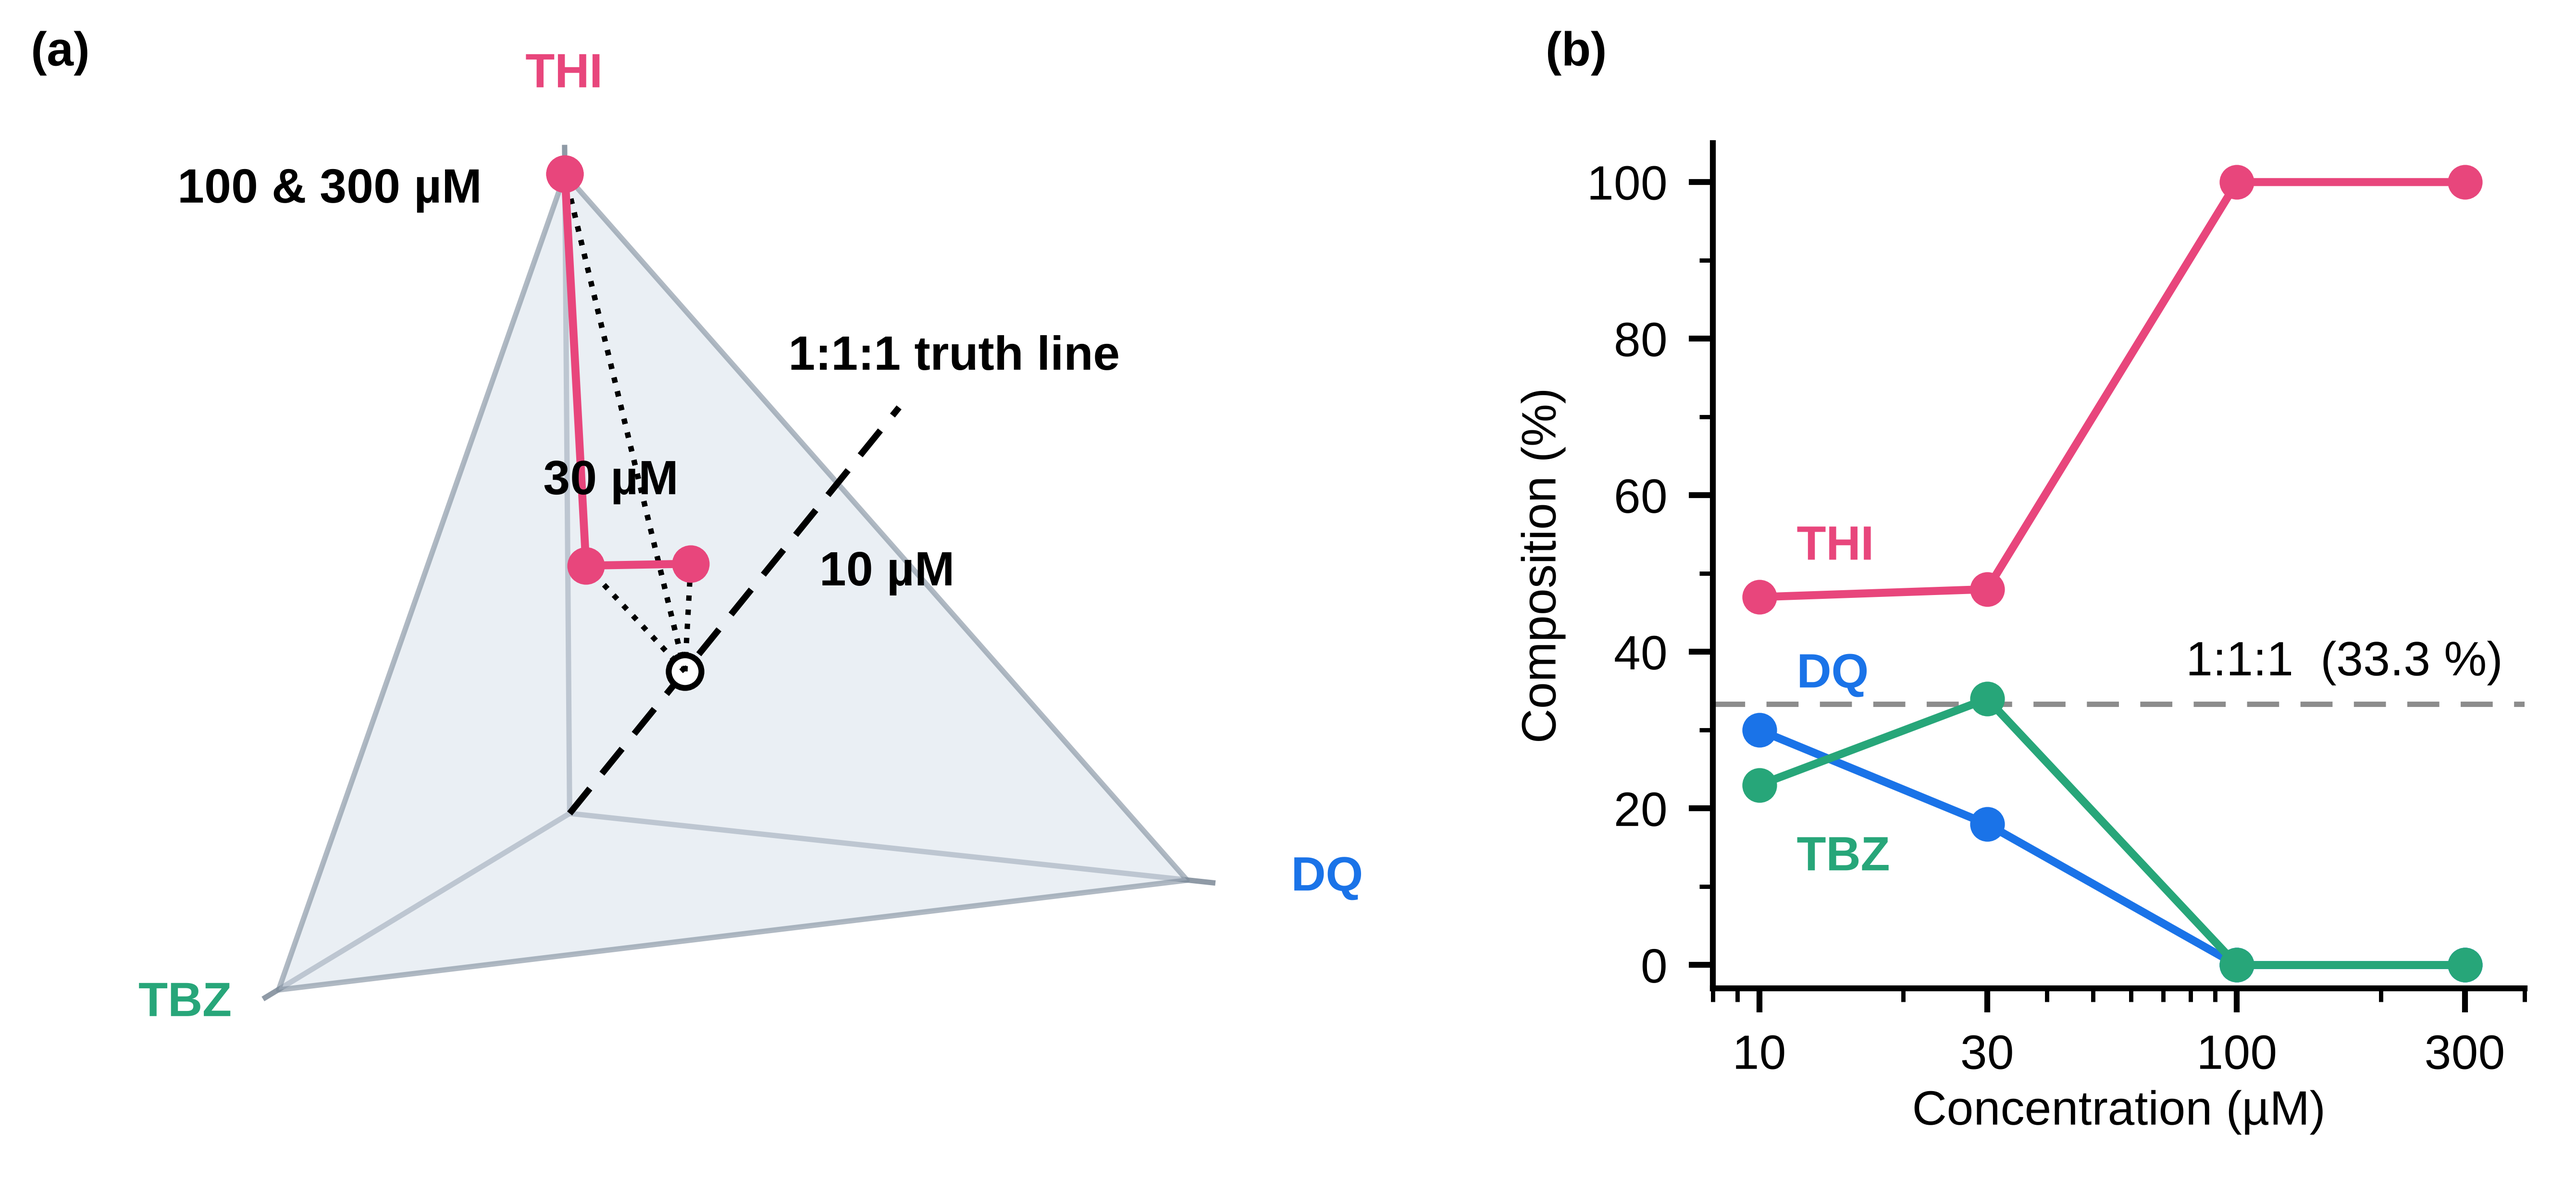
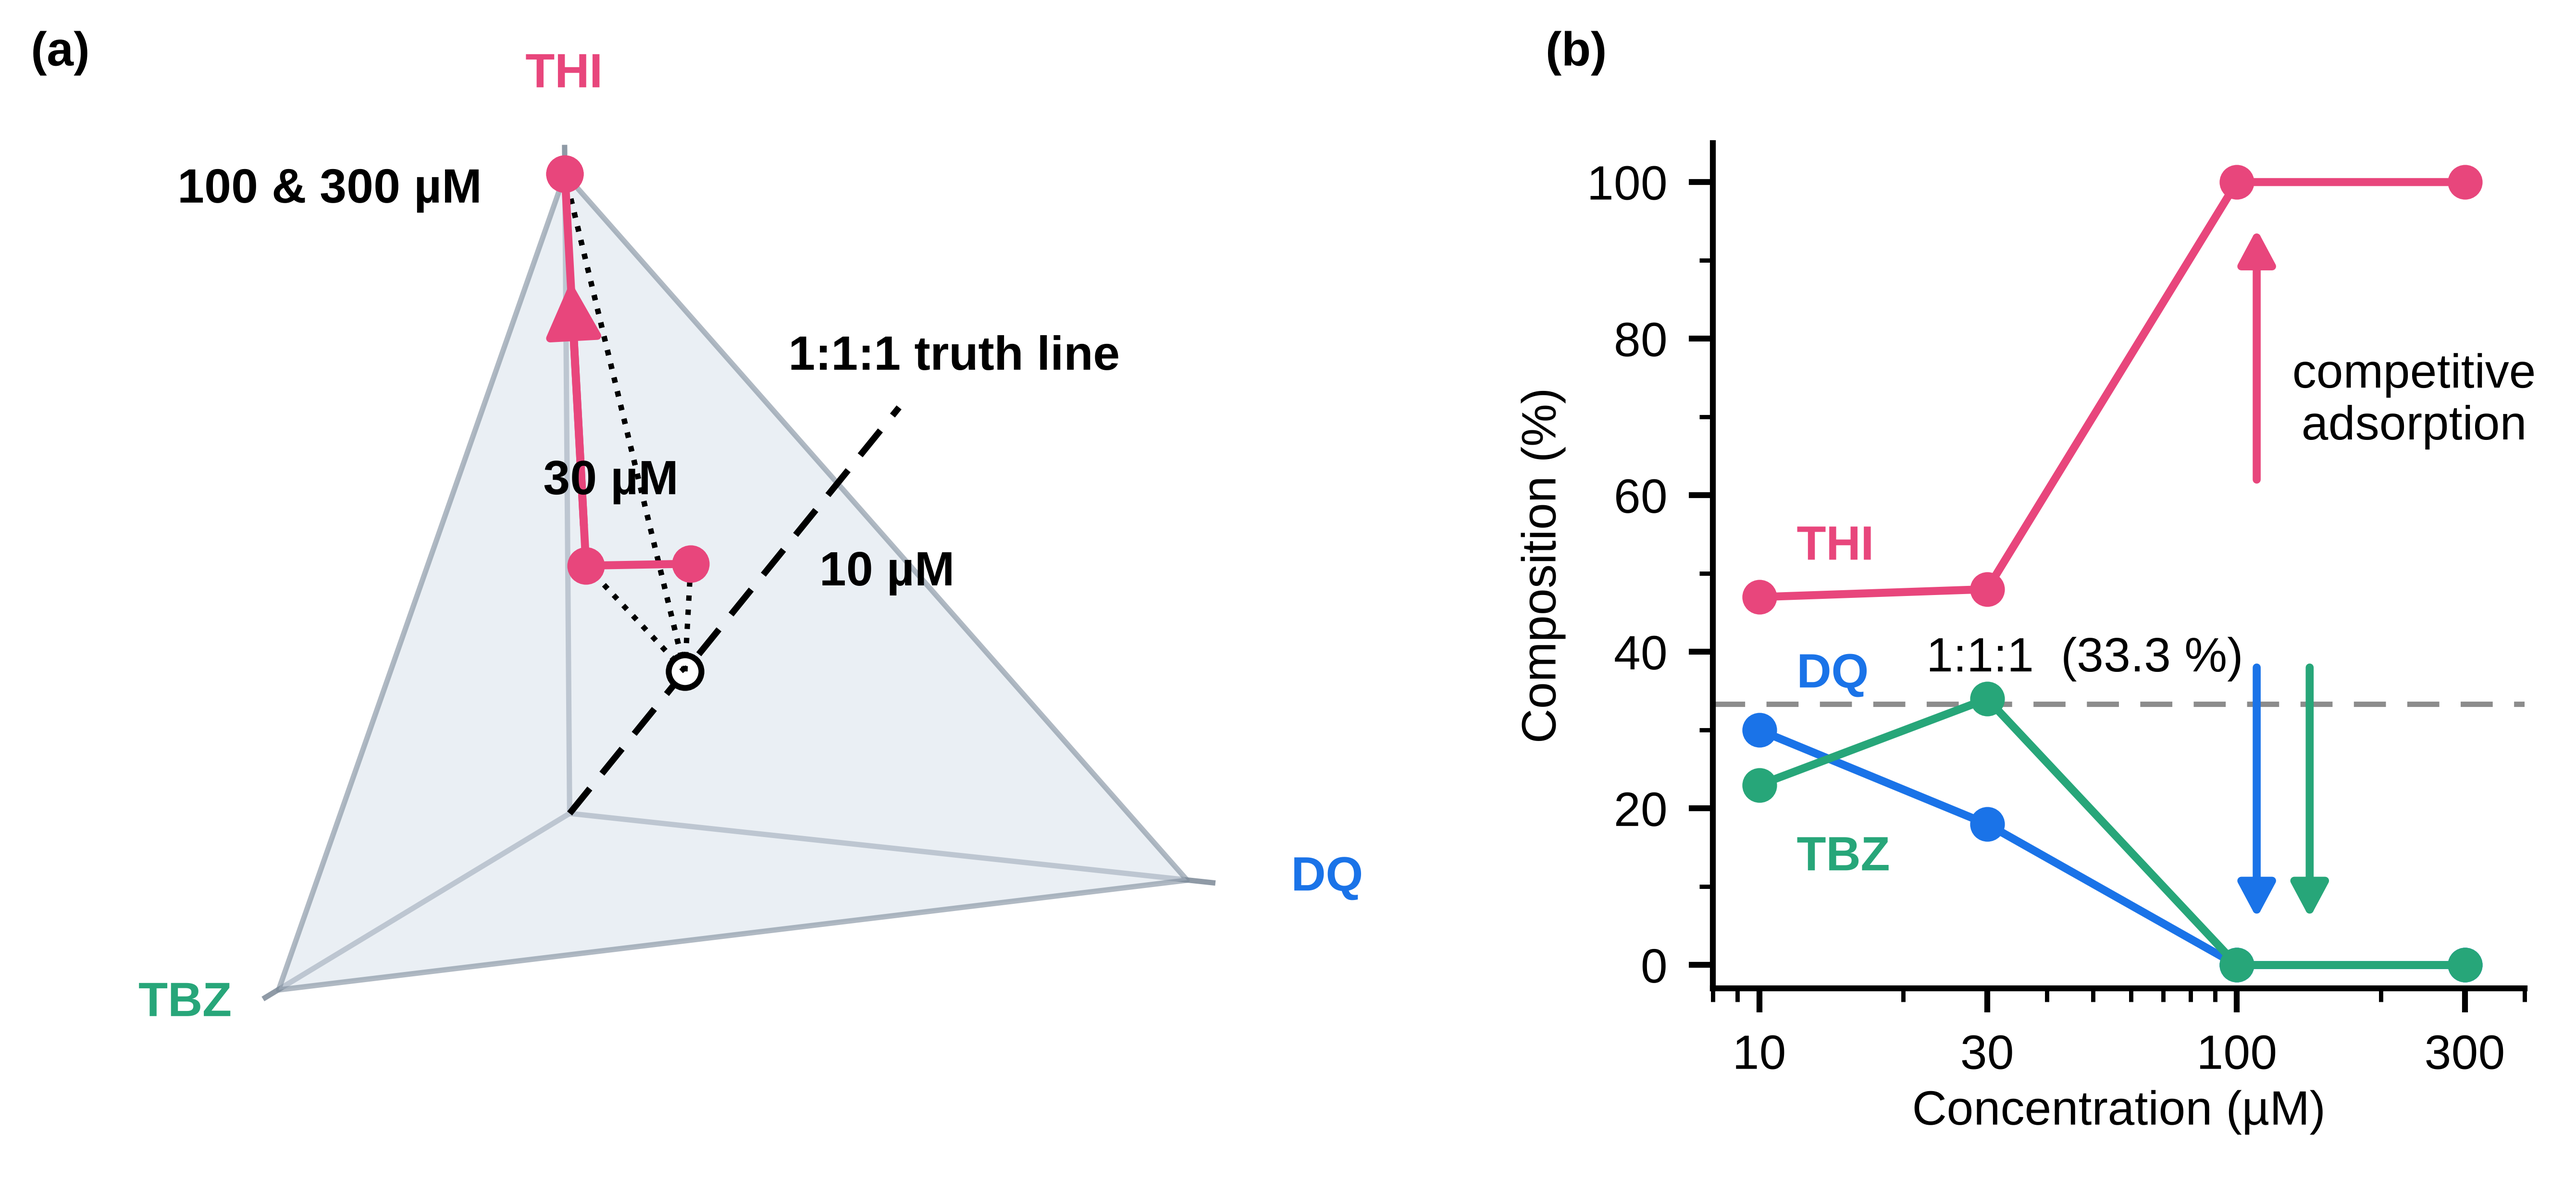
The competition is now drawn, not just implied: arrows for the drift and for both halves
Panel a shows where the composition sits but not which way it is going, and panel b
showed two facts side by side without saying they are one event. An arrowhead now
rides the drift toward the THI vertex, and in b a rising THI arrow sits opposite the
DQ and TBZ arrows falling to zero at the same step, labelled as the competition.

The label states the mechanism; the README records that this data cannot separate
competitive displacement from lost enhancement, and names the weaker wording to use
if the paper needs it.

Claude-Session: https://claude.ai/code/session_01L2ua5G45KJzgY5kkeG6kUP

Changed region(s): [[0.8724, 0.1863, 0.997, 0.4036], [0.7478, 0.5278, 0.9659, 0.7762], [0.2181, 0.2484, 0.2493, 0.2794]]

diff --git a/paper_figures/fig2_simplex_drift.py b/paper_figures/fig2_simplex_drift.py
@@ -19,7 +19,9 @@ import numpy as np
 import matplotlib
 matplotlib.use("Agg")
 import matplotlib.pyplot as plt
+from matplotlib.patches import FancyArrowPatch
 from matplotlib.ticker import LogLocator, MultipleLocator, NullFormatter
+from mpl_toolkits.mplot3d.proj3d import proj_transform
 from mpl_toolkits.mplot3d.art3d import Poly3DCollection
 
 OUT = Path(__file__).resolve().parent
@@ -37,6 +39,20 @@ plt.rcParams.update({
     "xtick.color": INK, "ytick.color": INK, "xtick.labelsize": PT, "ytick.labelsize": PT,
     "xtick.major.width": 1.6, "ytick.major.width": 1.6, "savefig.facecolor": "white",
 })
+
+class Arrow3D(FancyArrowPatch):
+    """A real filled arrowhead in 3-D — mplot3d's quiver head vanishes at this scale."""
+
+    def __init__(self, xyz0, xyz1, **kw):
+        super().__init__((0, 0), (0, 0), **kw)
+        self._ends = (np.asarray(xyz0, float), np.asarray(xyz1, float))
+
+    def do_3d_projection(self, renderer=None):
+        a, b = self._ends
+        xs, ys, zs = proj_transform(*np.column_stack([a, b]), self.axes.M)
+        self.set_positions((xs[0], ys[0]), (xs[1], ys[1]))
+        return float(np.min(zs))
+
 
 P = np.array([np.array(c, float) / sum(c) for _, c in DATA])
 conc = np.array([c for c, _ in DATA], float)
@@ -82,6 +98,10 @@ ax.text(0.98, 0.98, 0.94, "1:1:1 truth line", color=INK, fontsize=PT, weight="bo
 for q in Q:                                              # perpendicular offsets
     ax.plot(*np.array([truth, q]).T, ls=":", color=INK, lw=2.0, zorder=8)
 ax.plot(Q[:, 0], Q[:, 1], Q[:, 2], color=THI, lw=3.0, zorder=9)
+seg = Q[2] - Q[1]                                        # where the drift is heading
+ax.add_artist(Arrow3D(Q[1] + 0.10 * seg, Q[1] + 0.72 * seg, color=THI, lw=3.0,
+                      arrowstyle="-|>,head_width=0.34,head_length=0.68",
+                      mutation_scale=26, shrinkA=0, shrinkB=0, zorder=11))
 ax.scatter(Q[:, 0], Q[:, 1], Q[:, 2], s=170, color=THI, depthshade=False, zorder=10)
 
 LAB = {10: ("10 µM", (-0.06, 0.18, -0.03), "left"),
@@ -99,12 +119,19 @@ fig.text(0.012, 0.945, "(a)", fontsize=PT, weight="bold", color=INK)
 ax2 = fig.add_subplot(gs[1])
 ax2.set_position([0.665, 0.17, 0.315, 0.71])
 ax2.axhline(100 / 3, ls=(0, (6, 4)), color=GUIDE, lw=2.0, zorder=1)
-ax2.text(360, 37, "1:1:1  (33.3 %)", fontsize=PT, color=INK, ha="right")
+ax2.text(48, 37.5, "1:1:1  (33.3 %)", fontsize=PT, color=INK, ha="center")
 for j, (lab, col, dy) in enumerate((("DQ", DQ, 16), ("TBZ", TBZ, -32), ("THI", THI, 14))):
     y = np.array([c[j] for _, c in DATA], float)
     ax2.plot(conc, y, color=col, lw=3.0, marker="o", ms=12, zorder=5, clip_on=False)
     ax2.annotate(lab, (conc[0], y[0]), textcoords="offset points", xytext=(14, dy),
                  ha="left", fontsize=PT, weight="bold", color=col)
+
+ARR = dict(arrowstyle="-|>,head_width=0.32,head_length=0.6", lw=3.0, shrinkA=0, shrinkB=0)
+ax2.annotate("", xy=(110, 94), xytext=(110, 62), arrowprops=dict(color=THI, **ARR), zorder=6)
+ax2.annotate("", xy=(110, 6), xytext=(110, 38), arrowprops=dict(color=DQ, **ARR), zorder=6)
+ax2.annotate("", xy=(142, 6), xytext=(142, 38), arrowprops=dict(color=TBZ, **ARR), zorder=6)
+ax2.text(235, 72, "competitive\nadsorption", fontsize=PT, color=INK, ha="center",
+         va="center", linespacing=1.15)
 
 ax2.set_xscale("log")
 ax2.set_xlim(8, 400); ax2.set_ylim(-3, 105)

diff --git a/paper_figures/README.md b/paper_figures/README.md
@@ -35,6 +35,13 @@ drop-line in panel **a** is exactly the perpendicular distance to the truth line
 angle in panel **b** is what it subtends. 54.7° (one pure compound) is the geometric
 maximum, which is why 100 and 300 µM sit *on* that ceiling rather than merely near it.
 
+Panel **a** carries an arrowhead along the drift (direction of rising concentration) and
+panel **b** the two halves of the competition — THI up, DQ and TBZ to zero, at the same
+step. The label reads "competitive adsorption"; note that this dataset alone cannot
+separate competitive displacement from a loss of enhancement (the same caveat recorded in
+`analysis/trio-260812-concentration/README.md`). If the paper needs the weaker claim,
+change that one string to "surface competition" or "response suppression".
+
 **The numbers in `DATA` were read off the stacked-bar chart** (10 µM → 30/23/47,
 30 µM → 18/34/48, 100 and 300 µM → 0/0/100). Point `DATA` at the per-map export to
 regenerate the figure from source values.
